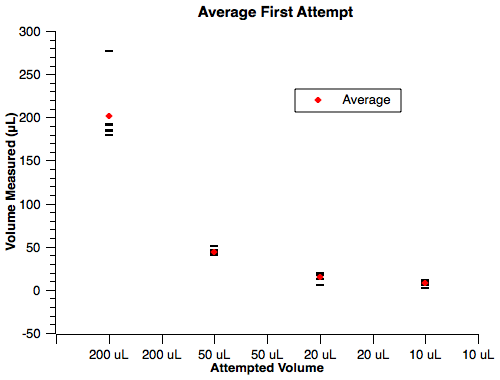
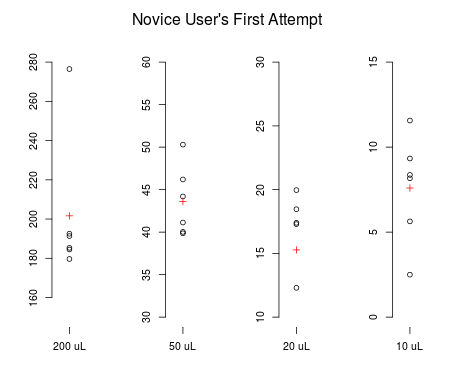
updated figure 3 with R

diff --git a/publishing/figures.tex b/publishing/figures.tex
@@ -46,7 +46,7 @@
 \begin{figure}
 \includegraphics[scale=0.7]{fig3.png}
 \caption{
-{\bf Novice user's first attempt.} Measurments of novice user's first attempt at adjusting the pipette to target volumes.
+{\bf Novice user's first attempt.} Measurements of novice user's first attempt at adjusting the pipette to target volumes. The red cross it the mean value.
 }
 \label{figure3}
 \end{figure}
